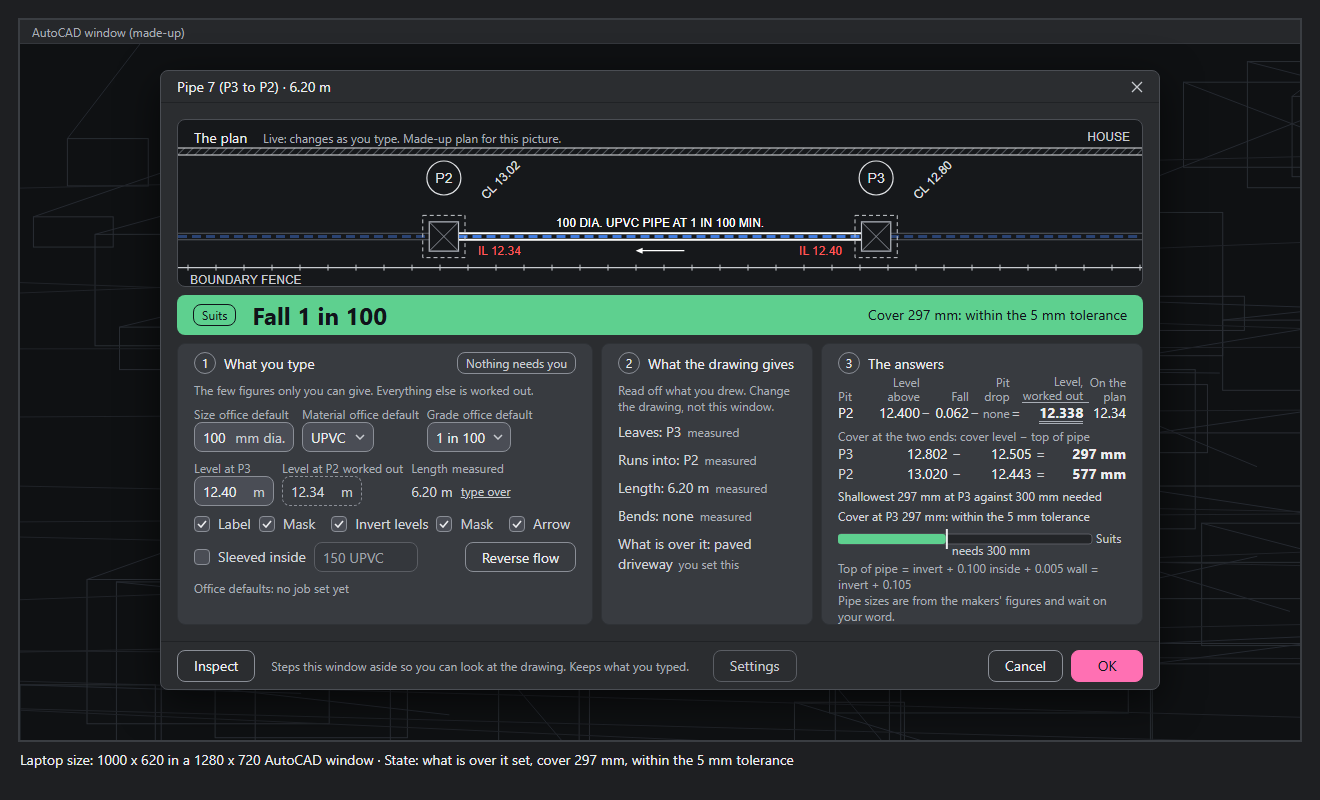
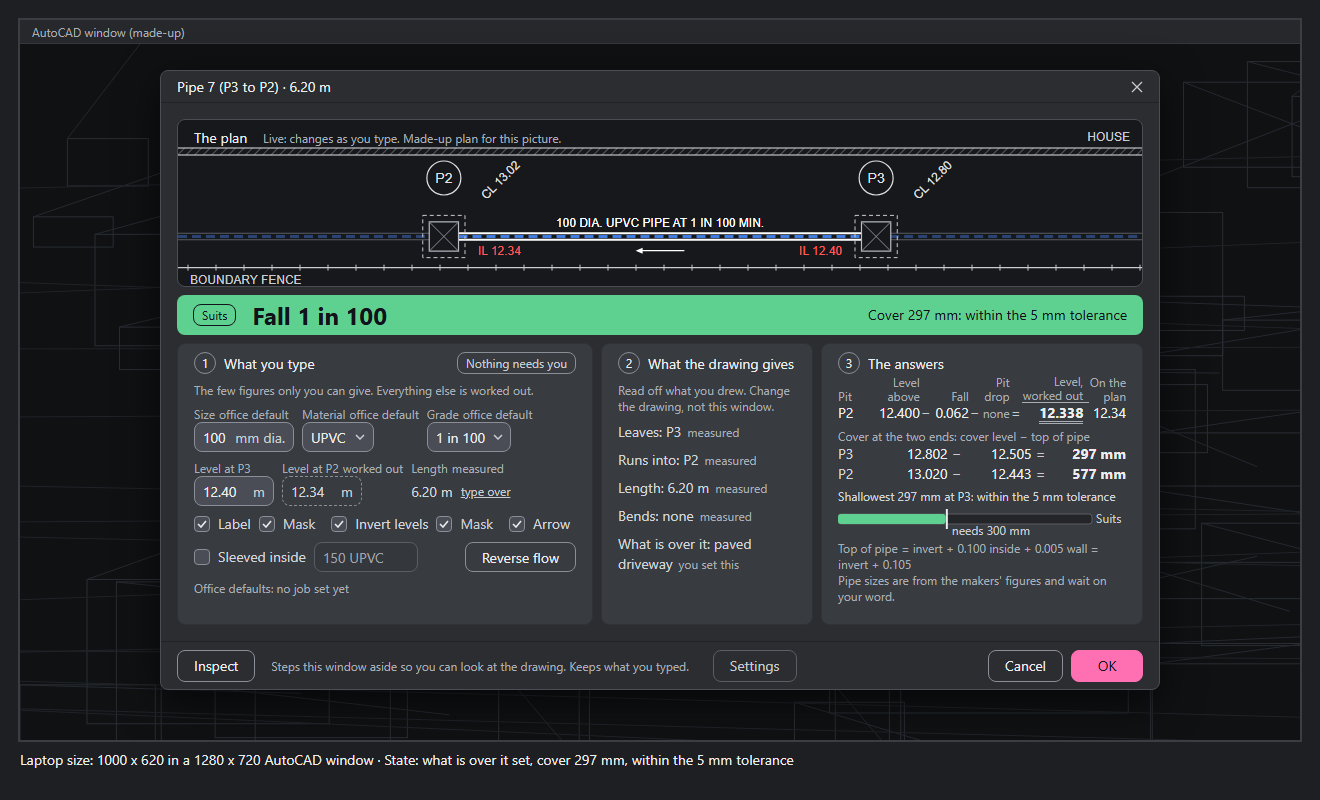
Tim's room: single-pipe window, within-tolerance state: two cover lines joined so step 3 fits (check room's third look)

Changed region(s): [[0.6212, 0.5938, 0.8386, 0.7812]]

diff --git a/zero/pictures/single_pipe_window.html b/zero/pictures/single_pipe_window.html
@@ -298,8 +298,7 @@ if(OVER){(function(){var blk=document.getElementById("cvblock");blk.style.displa
   var h='<div class="grey cvh">Cover at the two ends: cover level &minus; top of pipe</div>';
   h+='<table class="sum cvt"><colgroup>'+w.map(function(x){return '<col style="width:'+x+'px">'}).join('')+'</colgroup>'
     +row(NB,CL3,TOP3,COV3,WRONG)+row(NA,CL2,TOP2,COV2,false)+'</table>';
-  h+='<div class="cvline">Shallowest '+SHALLOW+' mm at '+SHAL_AT+(WRONG?', short by '+SHORT+' mm':' against '+NEED+' mm needed')+'</div>';
-  if(WITHIN)h+='<div class="cvline">Cover at '+NB+' '+SHALLOW+' mm: within the '+TOL+' mm tolerance</div>';
+  h+='<div class="cvline">Shallowest '+SHALLOW+' mm at '+SHAL_AT+(WRONG?', short by '+SHORT+' mm':(WITHIN?': within the '+TOL+' mm tolerance':' against '+NEED+' mm needed'))+'</div>';
   h+='<svg id="cvbar"></svg>';
   blk.innerHTML=h;
   var W=blk.clientWidth,H=30,s=document.getElementById("cvbar");s.setAttribute("width",W);s.setAttribute("height",H);s.setAttribute("viewBox","0 0 "+W+" "+H);
